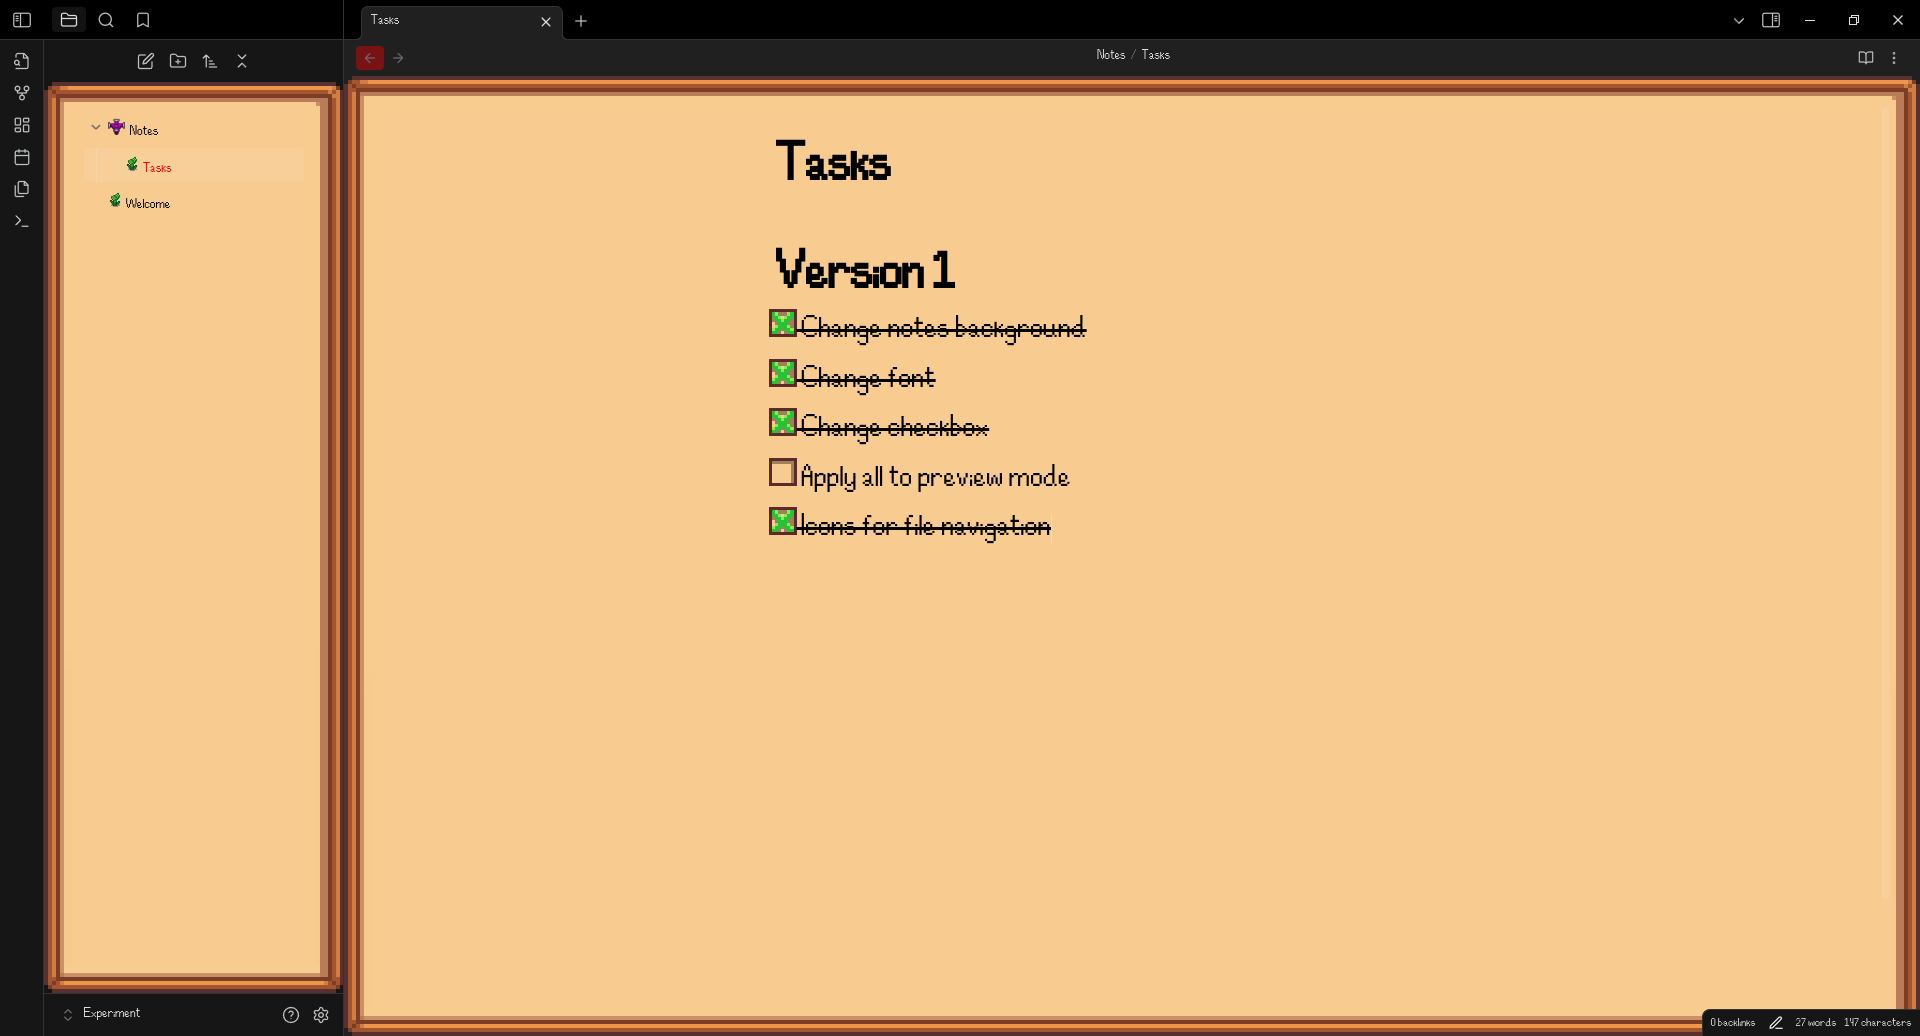
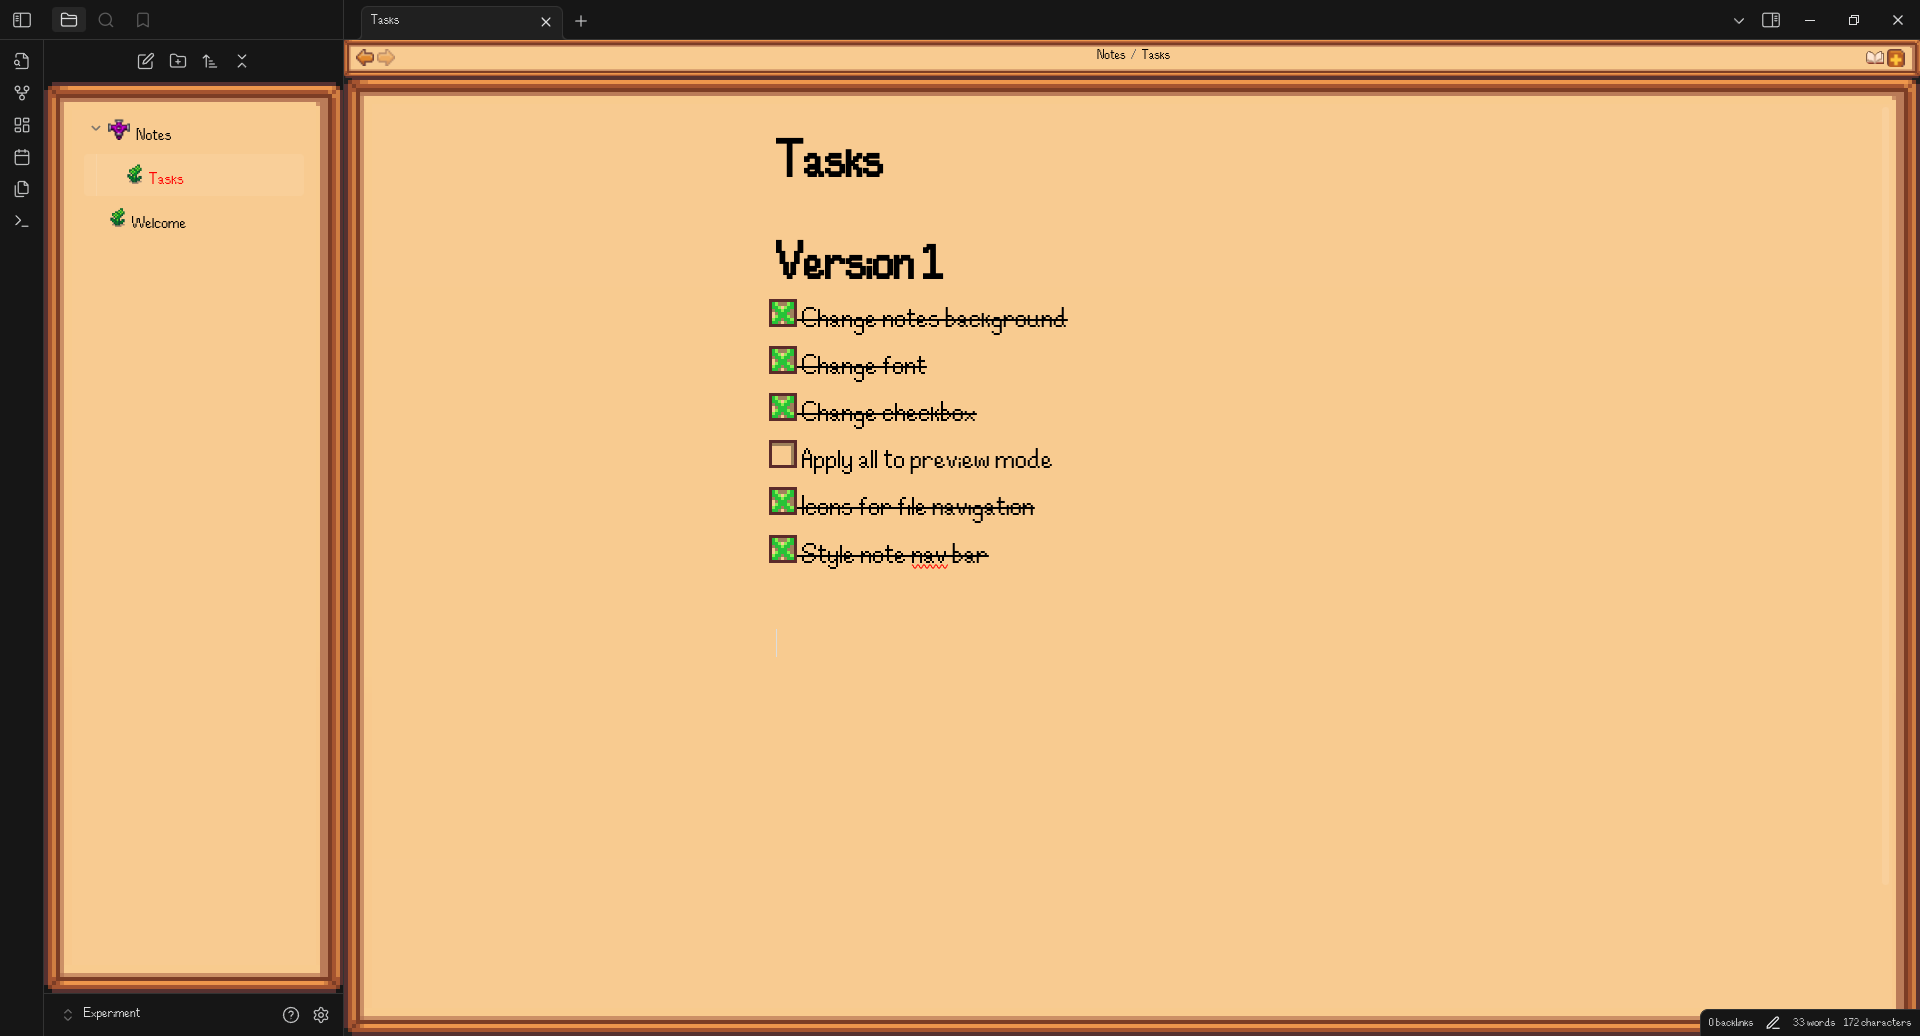
Some more buttons and file navigation

diff --git a/theme.css b/theme.css
@@ -6,23 +6,43 @@
     /* Checkbox */
[2 lines of base64/hex data omitted]
+    /* Arrows of Note Navigation Bar */
[2 lines of base64/hex data omitted]
+    /* Other buttons of Note Navigation Bar */
[2 lines of base64/hex data omitted]
+
     /* Nav Icons */
[2 lines of base64/hex data omitted]
+
+    /* ### Colors ### */
+    --dark-font-color: black;
+    --selected-file-font-color: red;
+}
+
+.theme-light, .theme-dark{
+    /* https://docs.obsidian.md/Reference/CSS+variables/CSS+variables */
+
+    /* Font size of files' and folders' names */
+    --nav-item-size: 1rem;
 }
 
 /* ==================================== */
 /* ### Note ### */
+
+/* Background and border */
 .view-content {
     margin: 28px;
     width: auto;
 
-    color: black;
+    color: var(--dark-font-color);
     background-color: #f8ca8d !important;
     border-image: var(--border) 28 / 28px / 28px !important;
 }
-/* ==================================== */
 
+/* ✅ */
 /* Checkbox Checked */
 label.task-list-label:has(input[type="checkbox"]:checked) {
     content: var(--checked);
@@ -32,10 +52,38 @@ label.task-list-label:has(input[type="checkbox"]) {
     content: var(--unchecked);
 }
 
-/* Nav Header */
-.view-header-nav-buttons button:nth-of-type(1) {
-    background-color: red;
+/* Note Navigation Bar */
+div.view-header {
+    color: var(--dark-font-color) !important;
+    background-color: #f8ca8d !important;
+    border-image: var(--border) 28 / 12px / 2px !important;
 }
+div.view-header div.view-header-title{ color: var(--dark-font-color) !important; }
+div.view-header div.view-header-title-container::after { background: unset; }
+/* Buttons of Note Navigation Bar */
+div.view-header button svg { display: none; }
+div.view-header button{
+    background-repeat: no-repeat;
+    background-size: 1.4em;
+    display: inline-block;
+    width: 1.6em;
+    height: 1.4em;
+    content: "";
+}
+div.view-header .view-header-nav-buttons button:nth-of-type(1){ background-image: var(--arrow-left); }
+div.view-header .view-header-nav-buttons button:nth-of-type(2){ background-image: var(--arrow-right); }
+div.view-header div.view-actions button:nth-of-type(2){
+    background-image: var(--open-book);
+    background-size: 1.3em;
+    height: 1em;
+}
+div.view-header div.view-actions button:nth-of-type(3){
+    background-image: var(--plus-sign);
+    background-size: 1.1em;
+    height: 1.3em;
+}
+
+/* ==================================== */
 
 
 /* ==================================== */
@@ -45,27 +93,27 @@ label.task-list-label:has(input[type="checkbox"]) {
     margin: 28px;
     font-size: 25px !important;
 
-    color: black;
+    color: var(--dark-font-color);
     background-color: #f8ca8d !important;
     border-image: var(--border) 28 / 28px / 28px !important;
 }
 /* Selected file name and file hover in file list */
 div.nav-files-container div.is-active {
-    color: red !important;
+    color: var(--selected-file-font-color) !important;
 }
 div.tree-item-self.is-clickable:hover {
-    color: black !important;
+    color: var(--dark-font-color) !important;
 }
 
 /* Folders */
 .tree-item-inner.nav-folder-title-content::before {
     background-image: var(--sprinkler);
     background-repeat: no-repeat;
-    background-size: 1.3em;
+    background-size: 1.4em;
 
     display: inline-block;
-    width: 1.5em;
-    height: 1.3em;
+    width: 1.6em;
+    height: 1.4em;
     margin-right: 0.2em;
 
     content: "";
@@ -74,11 +122,11 @@ div.tree-item-self.is-clickable:hover {
 .tree-item-inner.nav-file-title-content::before {
     background-image: var(--crop);
     background-repeat: no-repeat;
-    background-size: 1.1em;
+    background-size: 1.2em;
 
     display: inline-block;
-    width: 1.2em;
-    height: 1.5em;
+    width: 1.3em;
+    height: 1.6em;
     margin-right: 0.2em;
 
     content: "";
